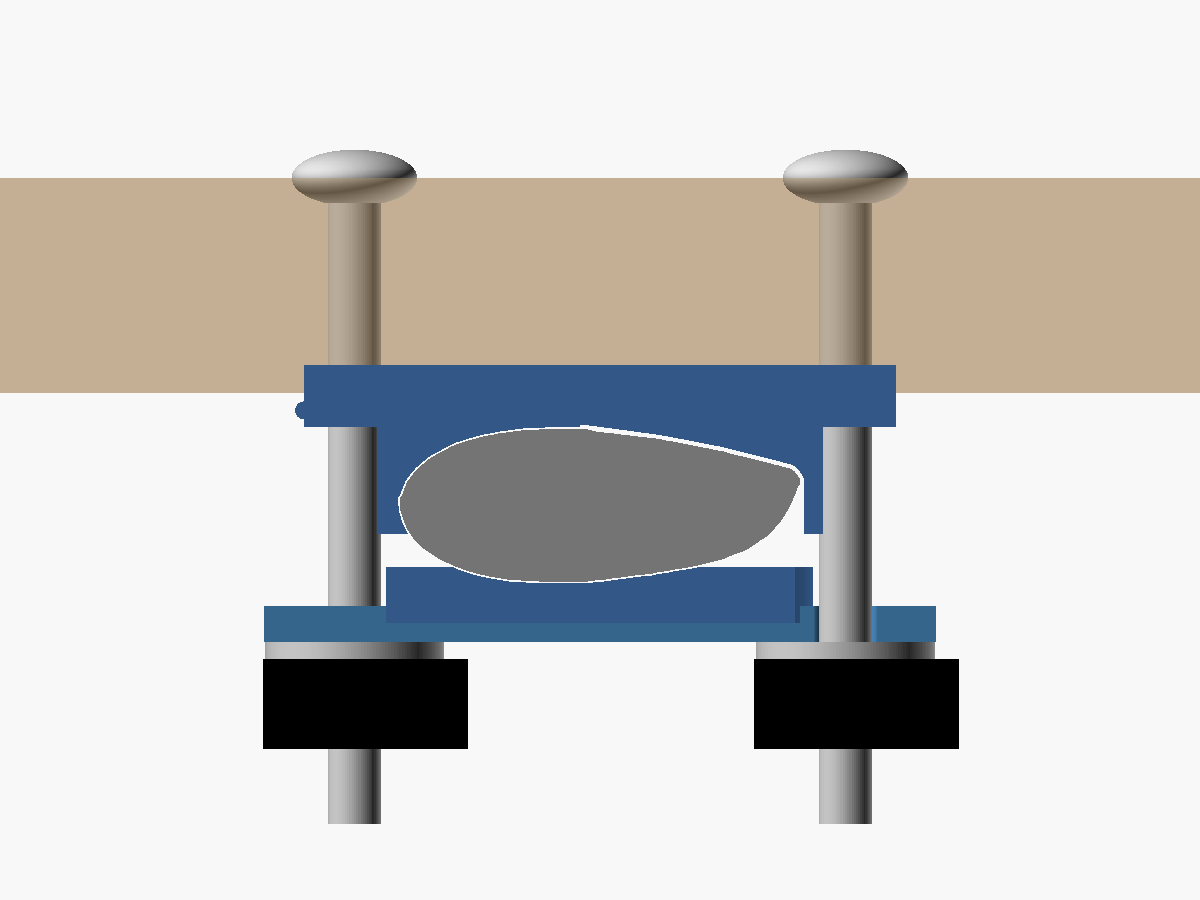
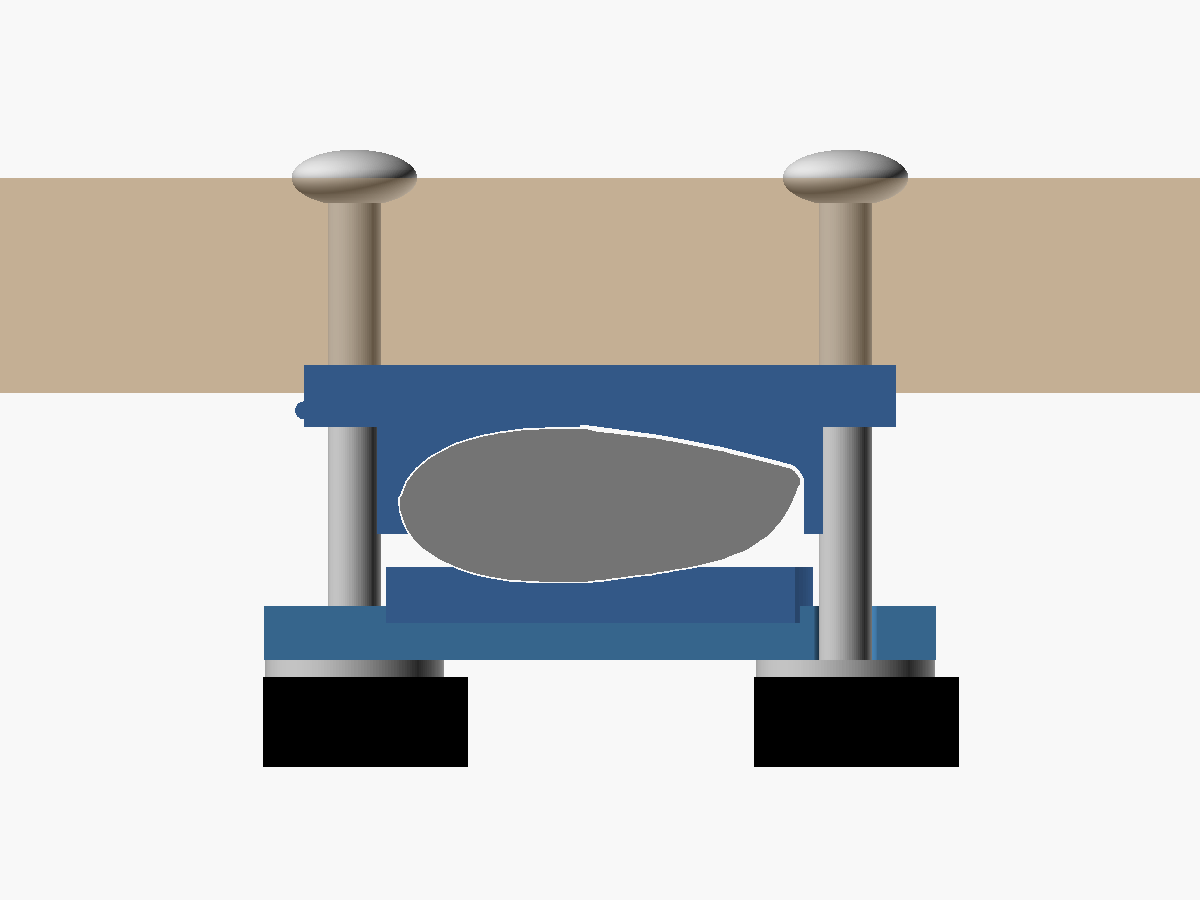
Build the plate from two layers of 3/16 in flat bar; default to 4 in bolts
A single 3/16 in plate sees nearly twice the bending stress of a 1/4 in
one and would bend under a firm hand on the knobs. Two loose layers are
slightly stronger than 1/4 in; epoxied, about twice as strong again.
plate_ply and plate_layers replace plate_t, and 1/4 in stock is one layer.

4 in carriage bolts still work with the thicker stack: 9.4 mm of thread
stays in the knob when it is backed off to swing, against 8.4 mm needed.
The README says how thin that margin is and how to recover some of it.

Changed region(s): [[0.2158, 0.7156, 0.8017, 0.7778], [0.2158, 0.8089, 0.4008, 0.9333], [0.6167, 0.8089, 0.8017, 0.9333]]

diff --git a/README.md b/README.md
@@ -74,10 +74,10 @@ anything comes to the bolt is 0.8 mm.
 
 | Qty | Part | Notes |
 | --- | --- | --- |
-| 2 | 3/8"-16 x 4-1/2" **carriage bolt**, zinc or stainless | 4" also works; see "Choosing bolts" below. |
+| 2 | 3/8"-16 x 4" **carriage bolt**, zinc or stainless | 4-1/2" gives more margin; see "Choosing bolts" below. |
 | 2 | 3/8"-16 **through-hole hand knob** (five-star or T) | Through-hole, not blind, so the bolt can pass. A steel-hub knob takes more torque than an all-plastic one. |
 | 2 | 3/8" x 1-1/4" **fender washer** | Wide enough to bridge the notch in the plate. |
-| — | 1/4" x 1-1/2" **steel flat bar**, 4-11/16" per bracket | One 36" stick makes all four plates with room to spare. |
+| — | 3/16" x 1-1/2" **steel flat bar**, two 4-11/16" pieces per bracket | Eight pieces for the rack, 37-1/2" plus saw kerfs, so buy a 48" stick. A single 1/4" plate per bracket works too; see "Making the plates". |
 | 1 | Printed **saddle** | |
 | 1 | Printed **pad** | |
 | — | Flexible adhesive | Shoe Goo, E6000 or contact cement, to bond the pad to the plate. |
@@ -108,14 +108,29 @@ Render `part = "plate_template"`, export it as SVG, print it at **100%
 scale**, and check the 50 mm bar on it with a ruler. A copy is in
 `stl/plate_template.svg` for the default settings.
 
-1. Cut 4-11/16" (119 mm) of flat bar per plate and square the ends.
-2. Glue the template on, centre-punch both crosshairs, and drill **7/16"**.
-3. At the notched end, hacksaw the two straight lines from the hole out to
+Each plate is **two layers of 3/16" flat bar**, stacked. The plate is
+loaded like a beam — the knobs pull its ends up and the bar pushes its
+middle down — and bending strength goes with the square of the thickness, so a
+single 3/16" layer sees nearly twice the stress of a 1/4" plate and bends
+under a firm hand on the knobs. Two loose layers are slightly stronger than
+one 1/4" plate. Epoxied together they act as one 3/8" plate, about twice as
+strong again, which is worth doing. If you have 1/4" stock, set
+`plate_ply = 6.35` and `plate_layers = 1`.
+
+1. Cut two 4-11/16" (119 mm) pieces of flat bar per plate and square the
+   ends.
+2. Clamp each pair together, edges flush, and treat it as one piece from
+   here on so the holes and notch line up.
+3. Glue the template on, centre-punch both crosshairs, and drill **7/16"**
+   through both layers.
+4. At the notched end, hacksaw the two straight lines from the hole out to
    the edge and snap or file out the waste. The notch is about 9/16"
    (14 mm) wide, and is deliberately off-centre on the hole, toward the
    pivot.
-4. Break every edge with a file, then paint or zinc-spray the plate.
-5. Bond the printed pad onto the plate, in its channel, curved face up.
+5. Break every edge with a file. Optionally epoxy the two layers together
+   (JB Weld or similar, on clean, sanded faces), then paint or zinc-spray
+   the plate.
+6. Bond the printed pad onto the plate, in its channel, curved face up.
 
 ## Printing
 
@@ -220,15 +235,19 @@ best, and that is now the default.
 
 Two numbers matter.
 
-1. **Length** — the knob sits **3.35" below the head**, and it has to keep
+1. **Length** — the knob sits **3.47" below the head**, and it has to keep
    enough thread to hold when it is backed off 3 turns to swing the plate.
-   That makes **4"** the shortest bolt that works, with little to spare.
-   **4-1/2"** is the default and leaves room for paint, a swollen board or
-   a thicker washer. Longer only adds steel hanging under the bar: at 4-1/2"
-   the tip is 1.7" below the bar, so check it clears the roof, especially
-   near the edges where the roof curves down.
+   **4"** is the default and the shortest bolt that works: it leaves 13 mm
+   of thread in the knob when clamped and 9.4 mm when backed off, against
+   the 8.4 mm of a standard nut. That is only about 1 mm spare, so a
+   swollen board or a thick coat of paint can use it up. The model assumes
+   a 3 mm washer; most fender washers are 1.5–2 mm, so measure yours and
+   set `washer_t` to get that back. **4-1/2"** bolts give plenty of room,
+   at the cost of the tip hanging 1.7" below the bar instead of 1.2" —
+   check it clears the roof, especially near the edges where the roof
+   curves down.
 2. **Thread length** — the knob has to be able to run up to the plate, so
-   the thread must start less than 3.35" below the head. Carriage bolts in
+   the thread must start less than 3.47" below the head. Carriage bolts in
    these lengths are usually threaded 1-1/2" or more, which is plenty.
 
 Set `bolt_len` and `bolt_thread` in the `.scad` to whatever you are holding.
@@ -263,5 +282,5 @@ assembly with the plate swung out, to check a change.
   The retailer listings say 2.75" x 1.10", which is close on width and 1 mm
   out on height.
 - 2x4 actual dimensions, 1.5" x 3.5" — standard dressed lumber.
-- 3/8"-16 carriage bolts, fender washers, hand knobs and 1/4" x 1-1/2" flat
+- 3/8"-16 carriage bolts, fender washers, hand knobs and 3/16" x 1-1/2" flat
   bar — standard hardware-store stock.
